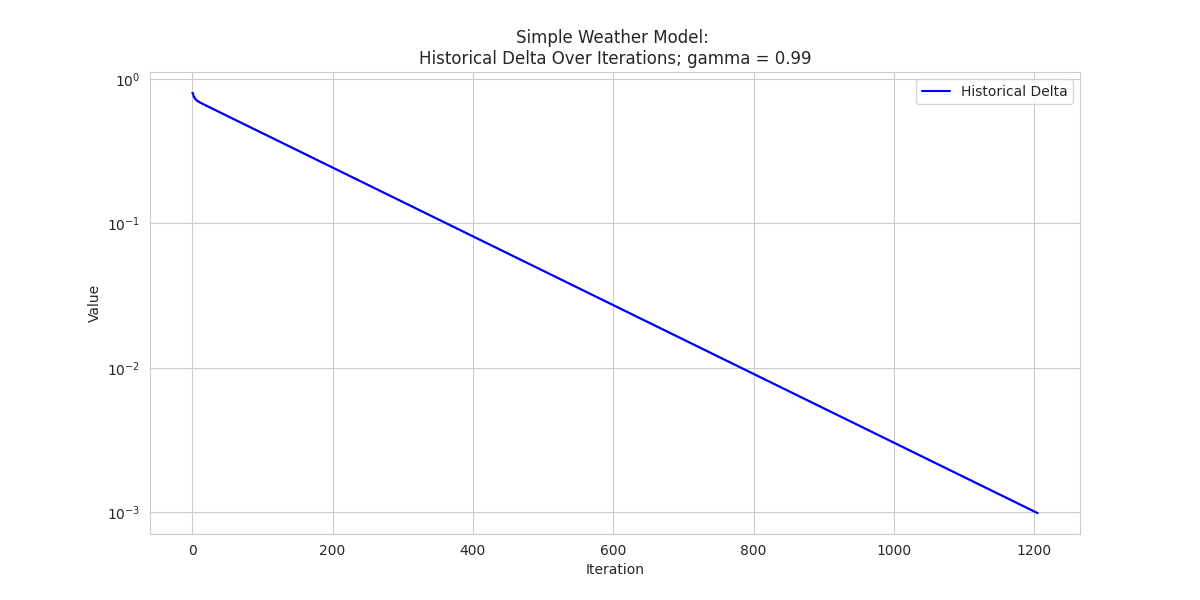
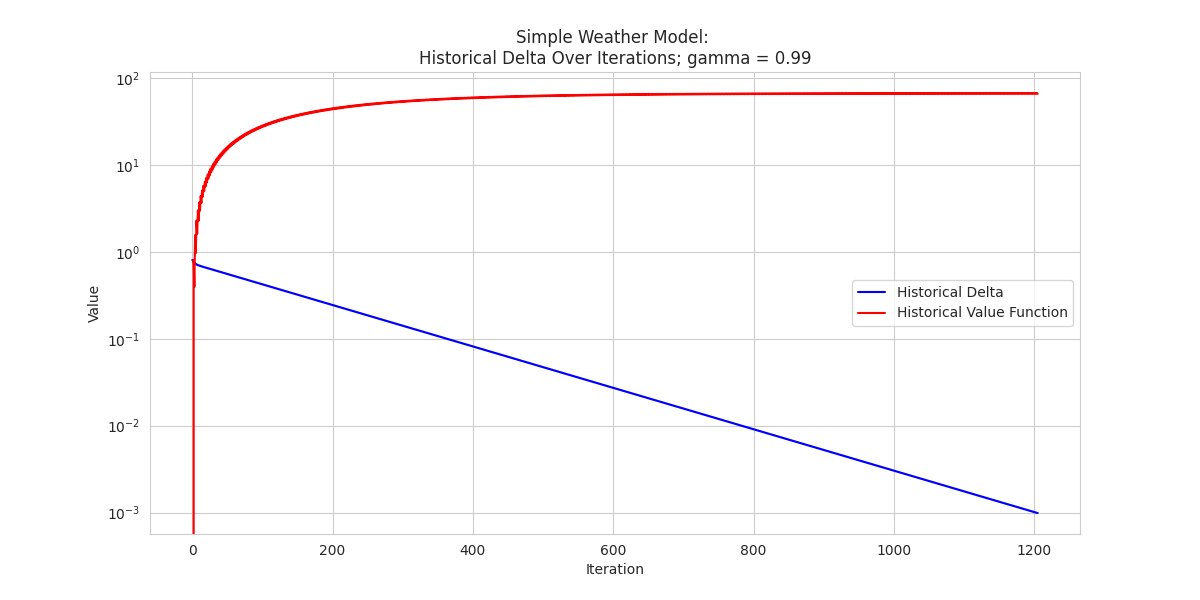
got value and policy iteration working; started the DQN code

diff --git a/main/main.py b/main/main.py
@@ -161,11 +161,79 @@ def value_iteration(
     return (policy, V, performance_metrics_df)
 
 
+def policy_iteration(
+    P: np.ndarray, R: np.ndarray, gamma: float = 0.99, threshold: float = 1e-3
+) -> tuple[np.ndarray, np.ndarray, pd.DataFrame]:
+    n_actions, n_states = R.shape
+
+    policy = np.random.randint(n_actions, size=n_states)  # Random initial policy
+    V = np.zeros(n_states)  # Initialize value function
+
+    historical_delta = []
+    historical_value_function = []
+
+    is_policy_stable = False
+    while not is_policy_stable:
+        # Policy Evaluation
+        while True:
+            delta = 0
+            for s in range(n_states):
+                v = V[s]
+                V[s] = sum(
+                    [
+                        P[policy[s], s, s_prime]
+                        * (R[policy[s], s_prime] + gamma * V[s_prime])
+                        for s_prime in range(n_states)
+                    ]
+                )
+                delta = max(delta, abs(v - V[s]))
+
+                historical_value_function.append(v)
+                historical_delta.append(delta)
+
+            if delta < threshold:
+                break
+
+        # Policy Improvement
+        is_policy_stable = True
+        for s in range(n_states):
+            old_action = policy[s]
+            policy[s] = np.argmax(
+                [
+                    sum(
+                        [
+                            P[a, s, s_prime] * (R[a, s_prime] + gamma * V[s_prime])
+                            for s_prime in range(n_states)
+                        ]
+                    )
+                    for a in range(n_actions)
+                ]
+            )
+
+            if old_action != policy[s]:
+                is_policy_stable = False
+
+    historical_delta_np = np.array(historical_delta)
+    historical_value_function_np = np.array(historical_value_function)
+    performance_metrics_np = np.vstack(
+        (historical_delta_np, historical_value_function_np)
+    )
+
+    performance_metrics_df = pd.DataFrame(
+        performance_metrics_np.T,
+        columns=["Historical Delta", "Historical Value Function"],
+    )
+    performance_metrics_df = performance_metrics_df.reset_index(
+        inplace=False, drop=False
+    ).rename(columns={"index": "Iteration"})
+
+    return (policy, V, performance_metrics_df)
+
+
 def output_value_iteration_performance_metrics_graph(
     df: pd.DataFrame,
     mdp: str,
     gamma: float,
-    delta_color: str = "blue",
     value_function_color: str = "green",
     grid_style: str = "whitegrid",
 ) -> None:
@@ -181,13 +249,50 @@ def output_value_iteration_performance_metrics_graph(
         df["Iteration"],
         df["Historical Delta"],
         label="Historical Delta",
-        color=delta_color,
+        color="blue",
     )
     plt.plot(
-        df["Iteration"]
+        df["Iteration"],
         df["Historical Value Function"],
         label="Historical Value Function",
-        color=delta_color,
+        color="red",
+    )
+    plt.yscale("log")
+    plt.xlabel("Iteration")
+    plt.ylabel("Value")
+    plt.title(title)
+    plt.legend()
+    plt.grid(True)
+    plt.savefig(output_location)
+    plt.close()
+
+
+def output_policy_iteration_performance_metrics_graph(
+    df: pd.DataFrame,
+    mdp: str,
+    gamma: float,
+    value_function_color: str = "green",
+    grid_style: str = "whitegrid",
+) -> None:
+    title = f"{mdp.replace('_', ' ').title()}: \nHistorical Delta Over Iterations; gamma = {gamma}"
+    output_location = f"../outputs/policy_iteration/{mdp}_historical_performance_metrics_gamma_{str(gamma).replace('.', '_')}.png"
+
+    os.makedirs(os.path.dirname(output_location), exist_ok=True)
+
+    sns.set_style(grid_style)
+
+    plt.figure(figsize=(12, 6))
+    plt.plot(
+        df["Iteration"],
+        df["Historical Delta"],
+        label="Historical Delta",
+        color="blue",
+    )
+    plt.plot(
+        df["Iteration"],
+        df["Historical Value Function"],
+        label="Historical Value Function",
+        color="red",
     )
     plt.yscale("log")
     plt.xlabel("Iteration")
@@ -200,38 +305,84 @@ def output_value_iteration_performance_metrics_graph(
 
 
 if __name__ == "__main__":
-    # Simple Weather Model MDP
-    mdp = "simple_weather_model"
-    (P, R) = simple_weather_model_mdp()
-    gamma = 1e-3
-    (policy, V, performance_metrics_df) = value_iteration(P, R, gamma=gamma)
-    output_value_iteration_performance_metrics_graph(
-        df=performance_metrics_df, mdp=mdp, gamma=gamma
-    )
+    RUN_VALUE_ITERATION = False
+    RUN_POLICY_ITERATION = True
+    if RUN_VALUE_ITERATION:
+        ###########################################
+        ## Value Iteration
+        ###########################################
+        # Simple Weather Model MDP
+        mdp = "simple_weather_model"
+        (P, R) = simple_weather_model_mdp()
+        gamma = 1e-3
+        (policy, V, performance_metrics_df) = value_iteration(P, R, gamma=gamma)
+        output_value_iteration_performance_metrics_graph(
+            df=performance_metrics_df, mdp=mdp, gamma=gamma
+        )
 
-    gamma = 0.9
-    (policy, V, performance_metrics_df) = value_iteration(P, R, gamma=gamma)
-    output_value_iteration_performance_metrics_graph(
-        df=performance_metrics_df, mdp=mdp, gamma=gamma
-    )
+        gamma = 0.9
+        (policy, V, performance_metrics_df) = value_iteration(P, R, gamma=gamma)
+        output_value_iteration_performance_metrics_graph(
+            df=performance_metrics_df, mdp=mdp, gamma=gamma
+        )
 
-    gamma = 0.99
-    (policy, V, performance_metrics_df) = value_iteration(P, R, gamma=gamma)
-    output_value_iteration_performance_metrics_graph(
-        df=performance_metrics_df, mdp=mdp, gamma=gamma
-    )
+        gamma = 0.99
+        (policy, V, performance_metrics_df) = value_iteration(P, R, gamma=gamma)
+        output_value_iteration_performance_metrics_graph(
+            df=performance_metrics_df, mdp=mdp, gamma=gamma
+        )
 
-    # Vending Machine MDP
-    mdp = "vending_machine"
-    (P, R) = vending_machine_mdp()
-    gamma = 1e-3
-    (policy, V, performance_metrics_df) = value_iteration(P, R, gamma=gamma)
-    output_value_iteration_performance_metrics_graph(
-        df=performance_metrics_df, mdp=mdp, gamma=gamma
-    )
+        # Vending Machine MDP
+        mdp = "vending_machine"
+        (P, R) = vending_machine_mdp()
+        gamma = 1e-3
+        (policy, V, performance_metrics_df) = value_iteration(P, R, gamma=gamma)
+        output_value_iteration_performance_metrics_graph(
+            df=performance_metrics_df, mdp=mdp, gamma=gamma
+        )
 
-    gamma = 0.9
-    (policy, V, performance_metrics_df) = value_iteration(P, R, gamma=gamma)
-    output_value_iteration_performance_metrics_graph(
-        df=performance_metrics_df, mdp=mdp, gamma=gamma
-    )
+        gamma = 0.9
+        (policy, V, performance_metrics_df) = value_iteration(P, R, gamma=gamma)
+        output_value_iteration_performance_metrics_graph(
+            df=performance_metrics_df, mdp=mdp, gamma=gamma
+        )
+
+    if RUN_POLICY_ITERATION:
+        ###########################################
+        ## Policy Iteration
+        ###########################################
+        # Simple Weather Model MDP
+        mdp = "simple_weather_model"
+        (P, R) = simple_weather_model_mdp()
+        gamma = 1e-3
+        (policy, V, performance_metrics_df) = policy_iteration(P, R, gamma=gamma)
+        output_policy_iteration_performance_metrics_graph(
+            df=performance_metrics_df, mdp=mdp, gamma=gamma
+        )
+
+        gamma = 0.9
+        (policy, V, performance_metrics_df) = policy_iteration(P, R, gamma=gamma)
+        output_policy_iteration_performance_metrics_graph(
+            df=performance_metrics_df, mdp=mdp, gamma=gamma
+        )
+
+        gamma = 0.99
+        (policy, V, performance_metrics_df) = policy_iteration(P, R, gamma=gamma)
+        output_policy_iteration_performance_metrics_graph(
+            df=performance_metrics_df, mdp=mdp, gamma=gamma
+        )
+
+        # Vending Machine MDP
+        mdp = "vending_machine"
+        (P, R) = vending_machine_mdp()
+        gamma = 1e-3
+        (policy, V, performance_metrics_df) = policy_iteration(P, R, gamma=gamma)
+        output_policy_iteration_performance_metrics_graph(
+            df=performance_metrics_df, mdp=mdp, gamma=gamma
+        )
+
+        gamma = 0.9
+        (policy, V, performance_metrics_df) = policy_iteration(P, R, gamma=gamma)
+        output_policy_iteration_performance_metrics_graph(
+            df=performance_metrics_df, mdp=mdp, gamma=gamma
+        )

diff --git a/main/DQNAgent.py b/main/DQNAgent.py
@@ -1,0 +1,59 @@
+import numpy as np
+import random
+
+from collections import deque
+
+from tensorflow.keras import Sequential
+from tensorflow.keras.layers import Dense
+
+
+def build_model(state_size, action_size):
+    model = Sequential(
+        [
+            Dense(64, activation="relu", input_shape=(state_size,)),
+            Dense(64, activation="relu"),
+            Dense(action_size, activation="linear"),
+        ]
+    )
+    model.compile(optimizer="adam", loss="mse")
+    return model
+
+
+class DQNAgent:
+    def __init__(self, state_size, action_size):
+        self.state_size = state_size
+        self.action_size = action_size
+        self.memory = deque(maxlen=2000)
+        self.gamma = 0.95  # discount rate
+        self.epsilon = 1.0  # exploration rate
+        self.epsilon_min = 0.01
+        self.epsilon_decay = 0.995
+        self.model = build_model(state_size, action_size)
+        self.target_model = build_model(state_size, action_size)
+        self.update_target_model()
+
+    def update_target_model(self):
+        self.target_model.set_weights(self.model.get_weights())
+
+    def remember(self, state, action, reward, next_state, done):
+        self.memory.append((state, action, reward, next_state, done))
+
+    def act(self, state):
+        if np.random.rand() <= self.epsilon:
+            return random.randrange(self.action_size)
+        act_values = self.model.predict(state)
+        return np.argmax(act_values[0])
+
+    def replay(self, batch_size):
+        minibatch = random.sample(self.memory, batch_size)
+        for state, action, reward, next_state, done in minibatch:
+            target = reward
+            if not done:
+                target = reward + self.gamma * np.amax(
+                    self.target_model.predict(next_state)[0]
+                )
+            target_f = self.model.predict(state)
+            target_f[0][action] = target
+            self.model.fit(state, target_f, epochs=1, verbose=0)
+        if self.epsilon > self.epsilon_min:
+            self.epsilon *= self.epsilon_decay
